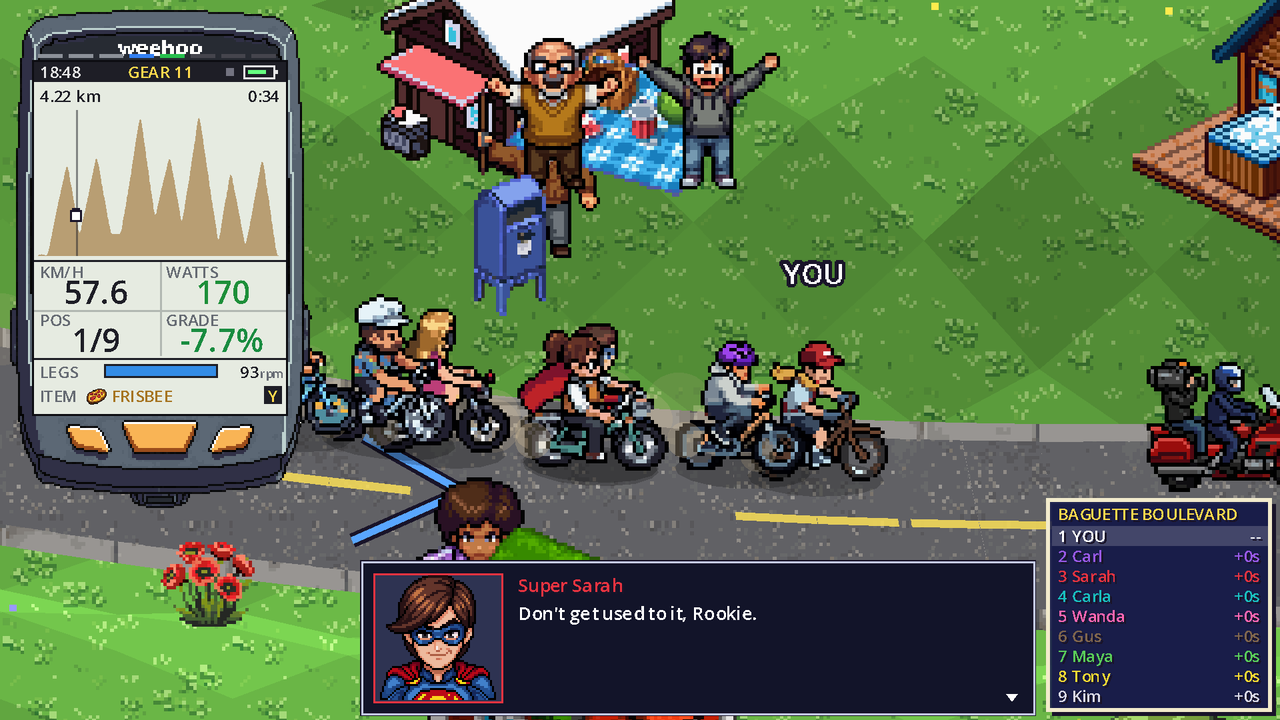
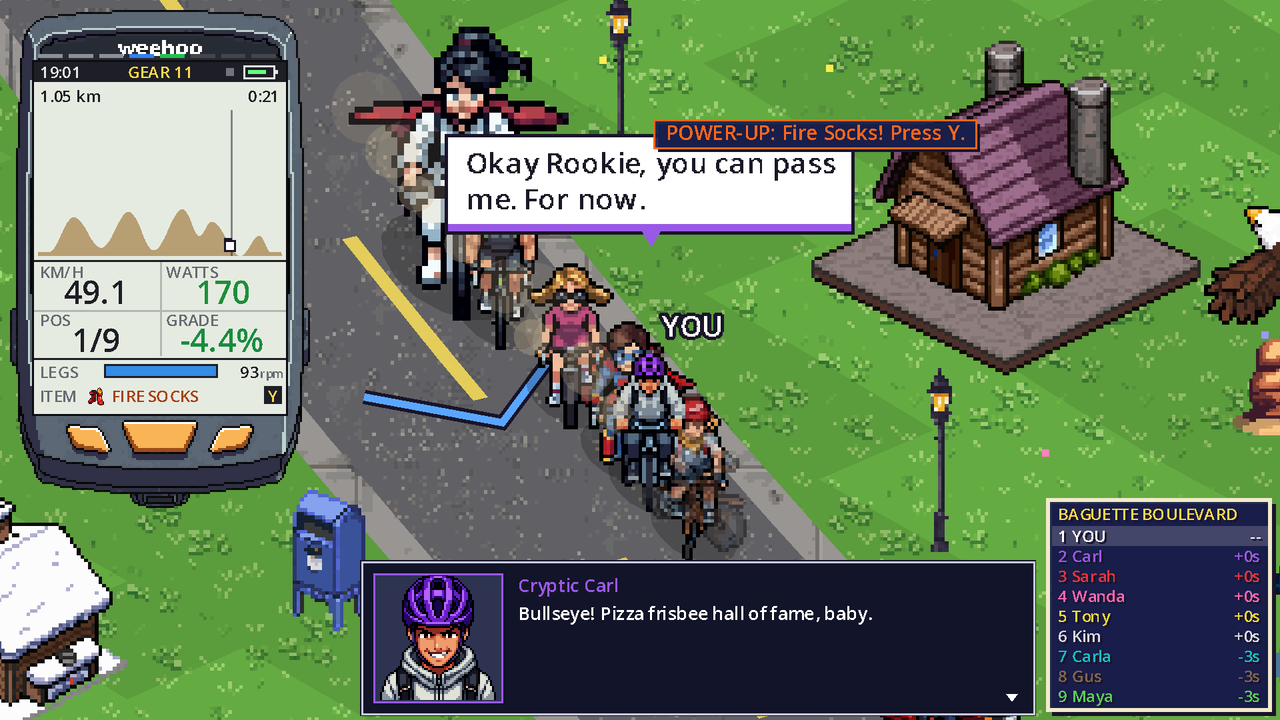
Baguette Boulevard: gentle rounded hills; the course chart no longer stretches small hills into spikes
The road race now climbs over a chain of rounded hills of random lengths and heights
(course key "hills", Race._hills): every top and bottom an S-curve, flat at both ends,
finishing level, about 80 m up and down with no slope over 6.5%. The WEEHOO's course
profile spans at least 1.5% of the course length in height (Race.chart_top), so gentle
courses look gentle; the mountains are drawn as before.

diff --git a/docs/index.html b/docs/index.html
@@ -546,15 +546,15 @@
     </div>
 
     <div class="course">
-      <figure><img src="img/course_road.png" alt="Baguette Boulevard: the bunch flying down a descent past the houses of Lower Crankmore, a mailbox and a picnic in a front garden" width="1280" height="720" loading="lazy"></figure>
+      <figure><img src="img/course_road.png" alt="Baguette Boulevard: the bunch strung out down a gentle descent past the houses of Lower Crankmore, the rolling hills on the bike computer" width="1280" height="720" loading="lazy"></figure>
       <div>
         <h3>Baguette Boulevard <span class="badge">COMING NEXT</span></h3>
-        <p>A proper road race. Five kilometres of tarmac through the houses of Lower Crankmore, with front gardens, mailboxes and half the street out cheering. Rolling climbs and quick dips all the way, finishing back level with the start. No gravel, so your road bike finally gets to shine.</p>
+        <p>A proper road race. Five kilometres of tarmac through the houses of Lower Crankmore, with front gardens, mailboxes and half the street out cheering. Gentle rounded hills all the way, finishing back level with the start. No gravel, so your road bike finally gets to shine.</p>
         <div class="facts">
           <div class="fact"><b>5 km</b><span>about 13 min</span></div>
-          <div class="fact"><b>~150 m</b><span>of climbing</span></div>
-          <div class="fact"><b>~150 m</b><span>of descents</span></div>
-          <div class="fact"><b>8.5%</b><span>steepest climb</span></div>
+          <div class="fact"><b>~80 m</b><span>of climbing</span></div>
+          <div class="fact"><b>5</b><span>rolling hills</span></div>
+          <div class="fact"><b>6%</b><span>steepest climb</span></div>
           <div class="fact"><b>$60</b><span>entry</span></div>
           <div class="fact"><b>$900</b><span>prize</span></div>
         </div>

diff --git a/README.md b/README.md
@@ -187,7 +187,7 @@ https://github.com/hermeslohin/mt-crankmore/releases
 * **The village**: winding roads around a cobbled plaza full of shops and market stalls, a lake with a beach and dock, hotels by the water and the gondola, chalet neighbourhoods in the woods, and only light traffic.
 * **Hills**: the plaza and the lakeshore are flat; the chalet neighbourhoods, Summit Road, Ridge Road and the climb up to the gondola roll up to about 7% (Gondola Way pitches to 9%). The grade is shown on your WEEHOO, slows you down uphill and speeds you up downhill (rivals too), and is sent to your trainer.
 * **Mt. Crankmore**: enter races at the Race HQ (the checkered building by the gondola). Three gravel races against your rivals (Foothill Gravel Grind, 6 km averaging 4%; Summit Gravel Showdown, 4.4 km averaging 6.5% with ramps up to 12%; and **Flour Run**, a 3 km ride through the flower meadows that climbs, dips and flattens out before finishing back level with the start, about 10 minutes) using a real power/weight/aero/grade model with extra gravel rolling resistance, drafting, power-ups, and prize money. Crossing the line doesn't end the ride: every course runs on for a 400 m cool-down, and the results come up at the end of it. The Gravel Grinder ($3000, a drop-bar bike built to take a beating) shines here. The **Fixie** ($2000) is completely impractical, but utterly awesome: stuck in gear 9, no shifting, no brakes.
-* **Baguette Boulevard**: the road race from Race HQ ($60 entry, $900 prize pool): 5 km of tarmac through the houses of Lower Crankmore, the Flour Run's wide sweeping bends lined with the town's chalets, mailboxes, lamp posts and fans in the front gardens. About 150 m of climbing and as much descending, in rolling climbs (up to 8.5%) and fast descents (down to 9%), finishing back level with the start; about 13 minutes. No gravel, creeks, jumps or logs: every bike rolls on its own tyres, and the only wildlife is what lives in the gardens.
+* **Baguette Boulevard**: the road race from Race HQ ($60 entry, $900 prize pool): 5 km of tarmac through the houses of Lower Crankmore, the Flour Run's wide sweeping bends lined with the town's chalets, mailboxes, lamp posts and fans in the front gardens. Five gentle rounded hills of different sizes (about 80 m of climbing and as much back down, nowhere steeper than 6.5%), finishing back level with the start; about 13 minutes. No gravel, creeks, jumps or logs: every bike rolls on its own tyres, and the only wildlife is what lives in the gardens.
 * **The Crusty Crit**: a criterium at its own entrance on Lookout Road, on the west edge of town ($60 entry, $900 prize pool). Every racer in town lines up (all 8) on a flat, winding 750 m asphalt circuit through the park, sixteen corners and chicanes lined with barriers and townsfolk cheering two and three deep. Crit rules: race as many laps as you can in 25 minutes; when time's up everyone gets two more laps, counted from when the leader next crosses the line, with the lap cards called out (laps to go, then the bell). The winner is whoever has the most laps, and on the same lap whoever crosses the line first; once the race is won, everyone else finishes the next time they cross the line. The WEEHOO shows a map of the circuit with everyone on it, your lap and the clock (then the laps to go).
 * **The Velodoughm**: an indoor velodrome at its own entrance on the east edge of town ($50 entry, winner takes $600). A 750 m wooden track banked steep in the turns, with two basketball courts in the middle, the black, red and blue lines painted on the boards, and townsfolk packed into the wooden stands and along the rail about as thick as at the crit. One lap, just you and **Thunder Thighs McGee**, a sprinter with muscles on his muscles and plenty to say about it. He puts out 150% of your FTP on his own Club Racer (at 75 kg), so only your FTP changes how fast he goes: a better bike or a lighter you makes *you* faster, and the Velodoughm's entrance tells you how many watts it takes on the bike you're riding. Turn up on the Rusty Trash Bike and he won't race you: "With that bike? Get out of here!!" No drafting and no power-ups in here: just legs. It's indoors, so no rain, snow or night.
   * **Drafting**: sit 1 to 9 m behind another rider in the same line (steer with LEFT / RIGHT or the paddles) and the same speed takes fewer watts: about 18% less at 13 km/h, 24% at 17 km/h and 30% at 40 km/h and above. **DRAFTING -n% watts** shows at the bottom of the screen, with wind streaks around your bike. The rivals draft too, off you and off each other.

diff --git a/docs/development.md b/docs/development.md
@@ -128,6 +128,7 @@ Every race is an entry in `Race.COURSES` (`scripts/race.gd`), and new ones go on
 | `grade`, `roll` | Base grade and how much it rolls; a mountain gets a random run of climbs, ramps and drops from them |
 | `profile` | `[metres, grade]` stretches instead, levelled so the finish is as high as the start |
 | `bump` | Gentle rollers on top |
+| `hills` | Metres of climbing in a chain of rounded hills of random lengths and heights (`Race._hills`): flat at both ends, level finish, no slope over `HILL_MAX` (6.5%), which can cap the climb below what's asked |
 | `hairpins`, `stagger`, `tunnels` | Switchbacks stacked up the mountain, how ragged the stack is, how many tunnels |
 | `bends`, `gap` | Wide sweeping U-bends `gap` tiles across instead of hairpins (Flour Run, Baguette Boulevard) |
 | `flowers` | A valley of flower meadows: no snow, scree or cliffs, little forest |
